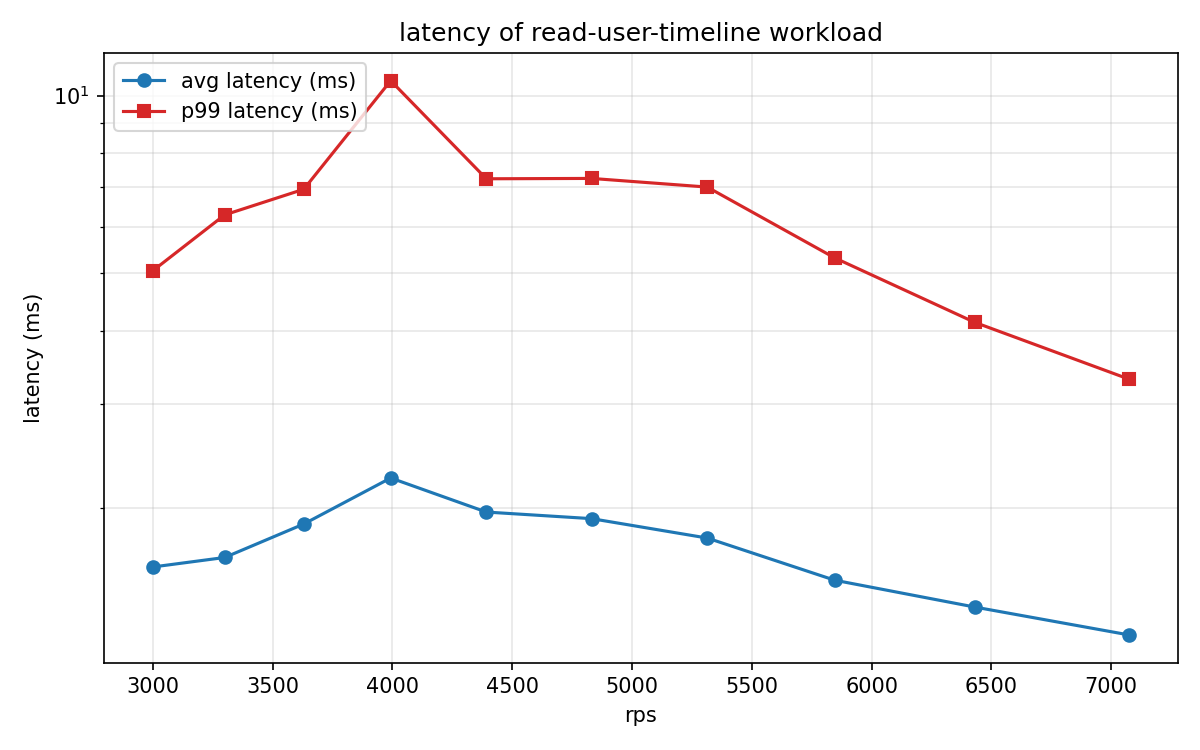
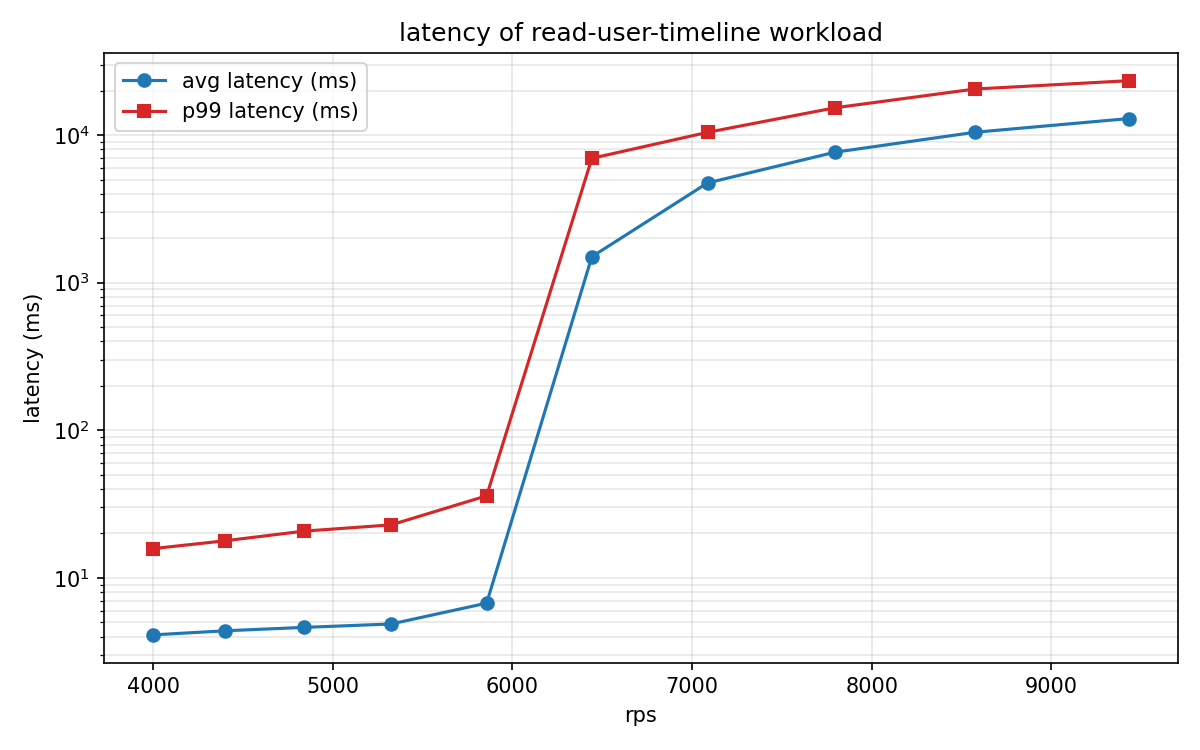
fix example

diff --git a/examples/minimal/main.py b/examples/minimal/main.py
@@ -1,6 +1,7 @@
 import subprocess
 import time
 import matplotlib
+
 matplotlib.use('Agg')
 import matplotlib.pyplot as plt
 import sys
@@ -13,6 +14,11 @@ READ_USER_TIMELINE_REST = 'http://localhost:8080/wrk2-api/user-timeline/read'
 WRK = '../wrk2/wrk -D exp -t 12 -c 100 -T 10s'
 
 
+def parse_time(s):
+    if s[-2:] == 'ms':
+        return float(s.replace('ms', '').replace(',', ''))
+    return float(s.replace('s', '').replace(',', '')) * 1000
+
 def parse_wrk2_output(text):
     result = {}
     for line in text.splitlines():
@@ -23,8 +29,8 @@ def parse_wrk2_output(text):
 
         if parts[0] == 'Latency':
             if len(parts) >= 4:
-                avg_ms = parts[1].replace('ms', '').replace(',', '')
-                p99_ms = parts[3].replace('ms', '').replace(',', '')
+                avg_ms = parse_time(parts[1])
+                p99_ms = parse_time(parts[3])
                 result['avg_latency_ms'] = float(avg_ms)
                 result['p99_latency_ms'] = float(p99_ms)
 
@@ -32,9 +38,9 @@ def parse_wrk2_output(text):
 
 
 def plot_results(parsed, out_path):
-    rps      = [p['rps'] for p in parsed]
-    avg_lat  = [p['avg_latency_ms'] for p in parsed]
-    p99_lat  = [p['p99_latency_ms'] for p in parsed]
+    rps = [p['rps'] for p in parsed]
+    avg_lat = [p['avg_latency_ms'] for p in parsed]
+    p99_lat = [p['p99_latency_ms'] for p in parsed]
 
     fig, ax = plt.subplots(figsize=(8, 5))
     ax.plot(rps, avg_lat, marker='o', label='avg latency (ms)', color='tab:blue')
@@ -53,11 +59,20 @@ def plot_results(parsed, out_path):
 
 
 def prepare(dur, rps):
-	subprocess.run(f'{WRK} -d {dur}s -R {rps} -s {READ_USER_TIMELINE_LUA} {READ_USER_TIMELINE_REST} > /dev/null', shell=True, text=True)
+    subprocess.run(
+        f'{WRK} -d {dur}s -R {rps} -s {READ_USER_TIMELINE_LUA} {READ_USER_TIMELINE_REST} > /dev/null',
+        shell=True, text=True,
+    )
+
 
 def run_queries(dur, rps):
-	result = subprocess.run(f'{WRK} -d {dur}s -R {rps} -s {READ_USER_TIMELINE_LUA} {READ_USER_TIMELINE_REST} | grep -A 6 -- \'Test Results\'', shell=True, text=True, capture_output=True)
-	return parse_wrk2_output(result.stdout)
+    result = subprocess.run(
+        f"{WRK} -d {dur}s -R {rps} -s {READ_USER_TIMELINE_LUA} {READ_USER_TIMELINE_REST} "
+        f"| grep -A 6 -- 'Test Results'",
+        shell=True, text=True, capture_output=True,
+    )
+    print(result.stdout)
+    return parse_wrk2_output(result.stdout)
 
 
 prepare(60, 500)
@@ -65,12 +80,12 @@ prepare(60, 500)
 parsed = []
 
 for i in range(10):
-	rps = int(3000 * 1.1 ** i)
-	print(f'RPS {rps}')
-	cur = run_queries(60, rps)
-	cur['rps'] = rps
-	parsed.append(cur)
-	time.sleep(30)
+    rps = int(4000 * 1.1 ** i)
+    print(f'RPS {rps}')
+    cur = run_queries(60, rps)
+    cur['rps'] = rps
+    parsed.append(cur)
+    time.sleep(30)
 
 
 plot_results(parsed, '../../examples/minimal/latency_rps.png')
